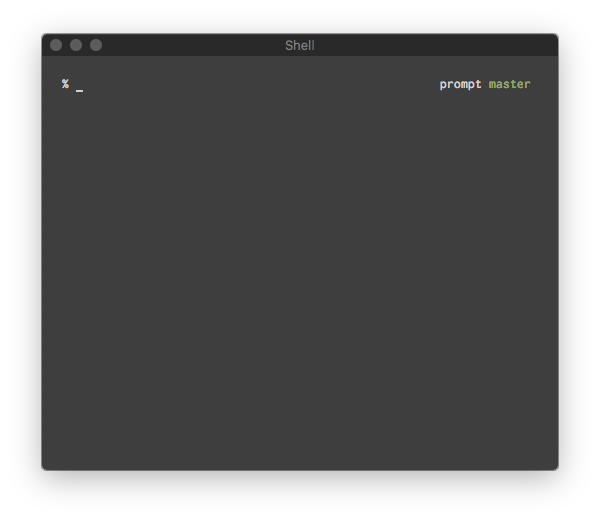
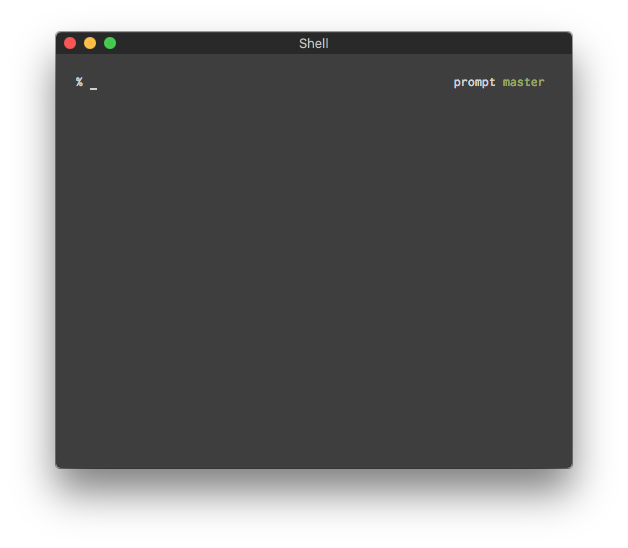
Align screenshot at center

Changed region(s): [[0.06, 0.0308, 0.93, 0.9231]]

diff --git a/README.md b/README.md
@@ -1,4 +1,6 @@
 # prompt
 
-![screenshot](screenshot.png)
+<div align="center">
+  <img src="screenshot.png" alt="screenshot" />
+</div>
 
